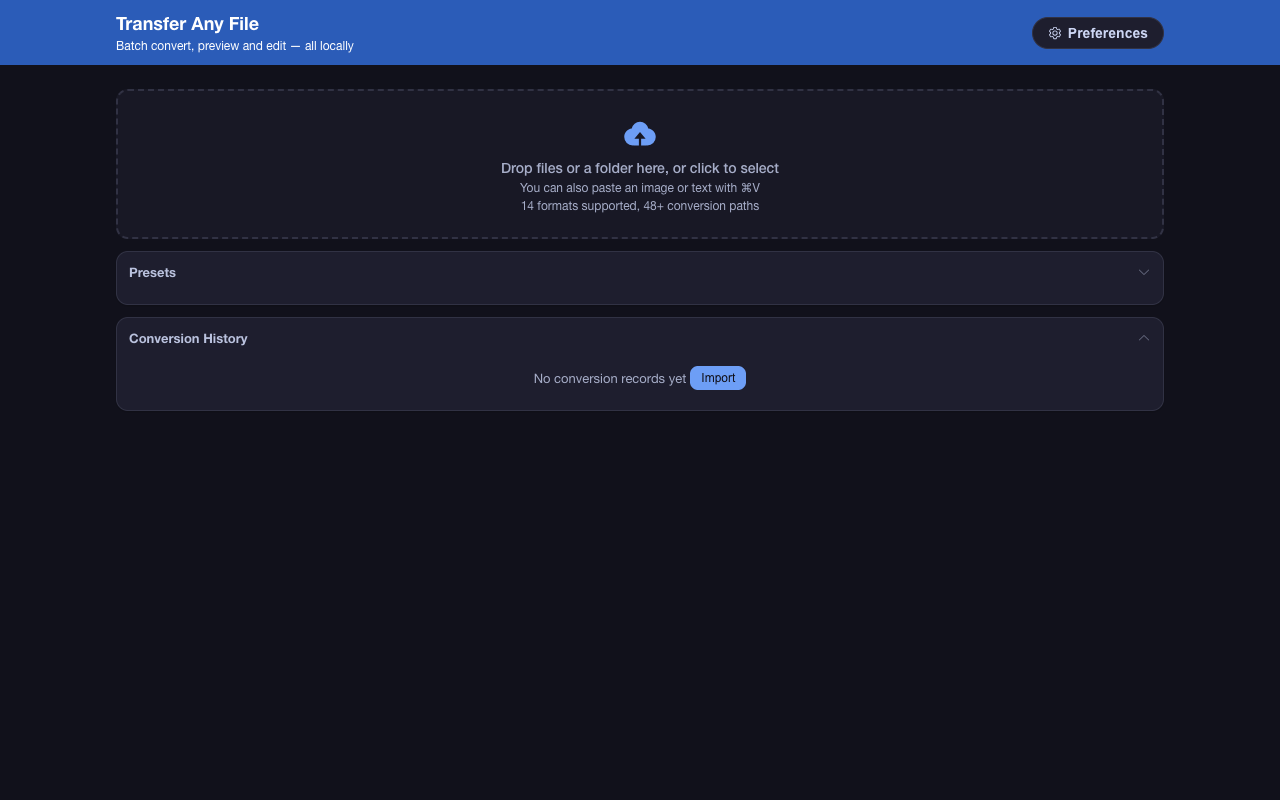
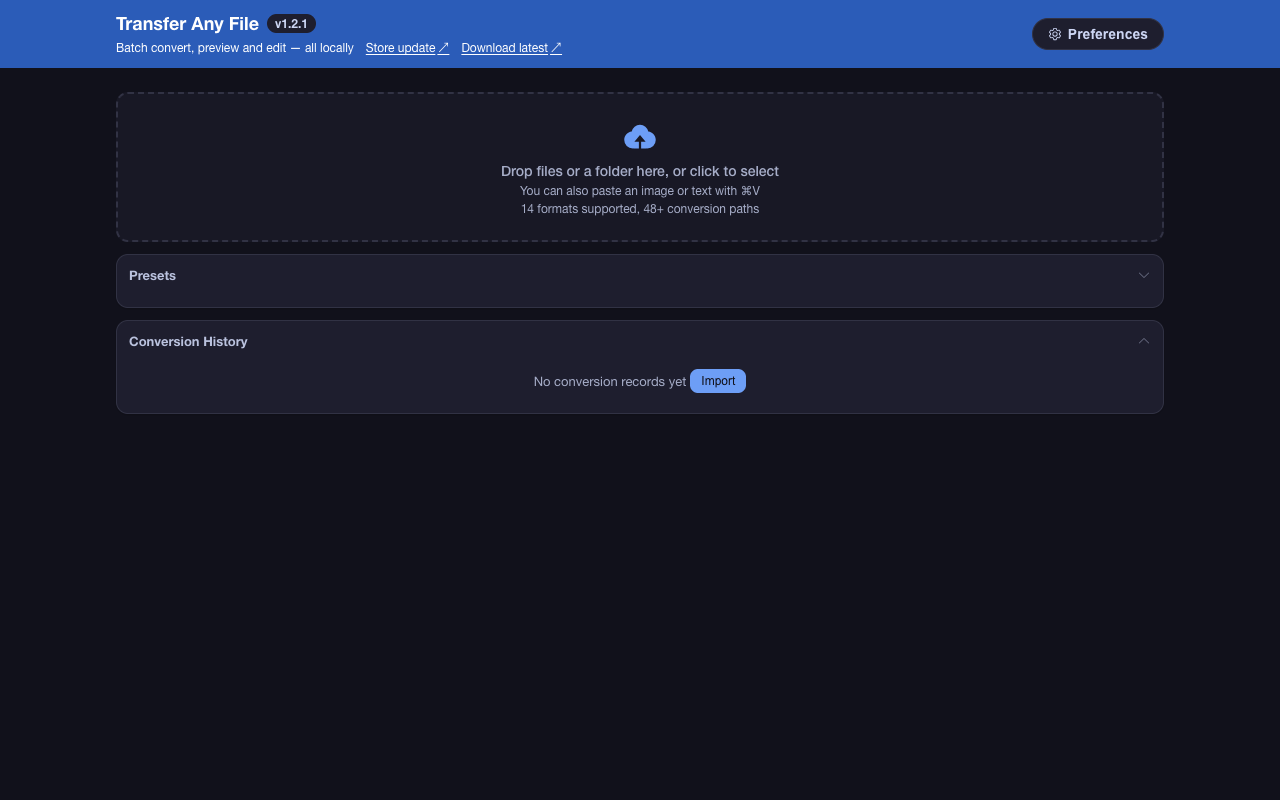
feat(ui): 顶栏显示装载版本，并给出商店与 Releases 两条更新入口
options 页顶栏品牌名旁多了一枚版本芯片，读的是 `browser.runtime.getManifest().version`，也就是 Chrome 扩展管理页上那一个数字，不是构建期烘进 bundle 的常量——用户报「我这是哪一版」时，屏幕上的数要和浏览器说的一致。副标题那一行再挂两条链接：Chrome 应用商店条目与 GitHub `releases/latest`。商店现停 1.0.0、GitHub 已 1.2.1，所以两条都给；扩展没有 host 权限、也没有可问的服务器，因此界面只给出口、不给判断，不会出现「有新版本」这类断言。芯片沿用 skip link 与齿轮那颗「卡片底 + text-primary 墨」的契约，链接墨色与 `.brand-name` 同一枚 `--fat-on-primary`、靠下划线承载可点击性，焦点环是顶栏已有的双带（外圈 focus-ring、内圈卡片色），所以没有引入第六组对比度对，也没有新颜色、新权限、新存储键或新的网络路径。窄窗口下副标题与链接一起换行，320px 实测不撑宽文档。

三处「用普通页面假装扩展页」的桩一起补 `chrome.runtime.getManifest`：`scripts/e2e-test.mjs`、`scripts/capture-store-assets.mjs`、`scripts/render-demo-gif.mjs` 此前只给 `chrome.runtime` 一个 `id`，新调用会在这些环境里抛错把整页打崩。桩里的版本从被测产物的 `.output/chrome-mv3/manifest.json` 现读，于是截图、GIF 与断言引用的都是这一次构建真的带的那个号。两条外链字符串不触两道离线守卫：`check-offline.mjs` 拦的是六种请求调用形状，`check-remote-code.mjs` 的 URL 规则要求串以 `.js` / `.mjs` / `.wasm` 结尾或呈 `import("http…")` 形状，商店条目与 releases 地址都不成形状——先例是 `tools/file-diff.html` 里那条同样的商店链接。

e2e 新增一节 9 条（453→462）：芯片文本与 tooltip、两条链接的精确地址（写错的 item ID 会把安装者送去 404，且没有别的门禁会发现）、`target=_blank` 与 `rel=noopener`、aria-label 以可见文案开头并点名新标签页（WCAG 2.5.3）、链接墨色与品牌名同色、320px 下顶栏换行不溢出。文档同步四层：README 中英各三处（功能全览、隐私清单、一条新 FAQ）、`docs/index.html` 隐私段中英各一句、CHANGELOG 双语、断言总数回填 8 处；商店文案与 manifest 描述未动（一枚芯片不是商品卖点，改它会牵动 `verify:listing` 的七个粘贴字段）。素材按新界面重拍，两条演示 GIF 重录。
[…]

diff --git a/entrypoints/options/App.vue b/entrypoints/options/App.vue
@@ -3,6 +3,7 @@ import { computed, ref, watch, nextTick, defineAsyncComponent, onMounted, onUnmo
 import { Setting, RefreshRight, CircleClose, UploadFilled } from '@element-plus/icons-vue';
 import zhCn from 'element-plus/es/locale/lang/zh-cn';
 import enUs from 'element-plus/es/locale/lang/en';
+import { browser } from 'wxt/browser';
 import { initConverters } from '~/utils/converters';
 import { useConversion } from '~/composables/useConversion';
 import { CONVERSION_ERROR_KEYS } from '~/utils/core/error-keys';
@@ -36,6 +37,21 @@ const ResultDownload = defineAsyncComponent(() => import('~/components/shared/Re
 const ComparisonView = defineAsyncComponent(() => import('~/components/shared/ComparisonView.vue'));
 
 initConverters();
+
+/**
+ * The two places a newer build can be had, printed beside the installed version in the topbar.
+ *
+ * Both are fixed addresses and neither is probed: this page asks the network nothing, so a
+ * "检查更新" that claimed an upgrade was available — or silent when one was — would be worse than a
+ * link that lets the reader look for themselves. The item ID is the live listing recorded at the top
+ * of `.github/CHROMEWEBSTORE.md`; `releases/latest` is the second half because the store copy trails
+ * GitHub until the next submission clears.
+ */
+const STORE_URL = 'https://chromewebstore.google.com/detail/blkdmpkcaceicinkhindniepbbbaekkb';
+const RELEASES_URL = 'https://github.com/liaolongdong/transfer-any-file/releases/latest';
+
+/** The version actually loaded, so the number a bug report quotes is the one on screen. */
+const appVersion = browser.runtime.getManifest().version;
 
 const { t, locale } = useI18n();
 const { recent: recentTargets } = useRecentTargets();
@@ -467,8 +483,39 @@ onUnmounted(() => {
       <header class="topbar">
         <div class="topbar-inner">
           <div class="brand">
-            <span class="brand-name">{{ t('appName') }}</span>
-            <span class="brand-tag">{{ t('options.subtitle') }}</span>
+            <div class="brand-line">
+              <span class="brand-name">{{ t('appName') }}</span>
+              <!-- The card-coloured pill the skip link and the preferences button already use: its ink
+                   is `--fat-text-primary` on `--fat-bg-card`, and those two flip together with the mode,
+                   so the chip needs no contrast measurement of its own on any of the six headers. -->
+              <span
+                class="brand-version"
+                :title="t('options.versionHint', { version: appVersion })"
+                >v{{ appVersion }}</span
+              >
+            </div>
+            <div class="brand-meta">
+              <span class="brand-tag">{{ t('options.subtitle') }}</span>
+              <!-- Clicking is the only way these reach the network, and the browser opens them — not
+                   this page. The arrow is generated by CSS so it stays out of the accessible name,
+                   which `aria-label` supplies in full (visible text first, WCAG 2.5.3). -->
+              <a
+                class="brand-link"
+                :href="STORE_URL"
+                target="_blank"
+                rel="noopener"
+                :aria-label="`${t('options.storeLink')}${t('options.newTabSuffix')}`"
+                >{{ t('options.storeLink') }}</a
+              >
+              <a
+                class="brand-link"
+                :href="RELEASES_URL"
+                target="_blank"
+                rel="noopener"
+                :aria-label="`${t('options.releasesLink')}${t('options.newTabSuffix')}`"
+                >{{ t('options.releasesLink') }}</a
+              >
+            </div>
           </div>
           <!-- A white capsule rather than the old 32px circle: the panel it opens is now a centred
                modal with grouped sections, and a labelled control says what it opens at a glance.
@@ -830,6 +877,66 @@ onUnmounted(() => {
 .brand-tag {
   font-size: 12px;
   color: var(--fat-on-primary);
+}
+
+/* Name and its version on one line. The chip is the smaller of the two, so it rides the name's
+   baseline and wraps under it when the header gets narrow, rather than joining the subtitle line. */
+.brand-line {
+  display: flex;
+  flex-wrap: wrap;
+  align-items: center;
+  gap: var(--fat-space-sm);
+}
+
+.brand-version {
+  padding: 2px var(--fat-space-sm);
+  background: var(--fat-bg-card);
+  border-radius: var(--fat-radius-pill);
+  color: var(--fat-text-primary);
+  font-size: 12px;
+  font-weight: 600;
+  font-variant-numeric: tabular-nums;
+}
+
+/* The subtitle and the two outbound links share the second line: the links qualify where an upgrade
+   comes from, so they belong beside the sentence that says what this page is, not on the far edge
+   next to the gear. The column gap is one step wider than the row gap because the line mixes a
+   description with actions — at 8px the first link read as the tail of the sentence. */
+.brand-meta {
+  display: flex;
+  flex-wrap: wrap;
+  align-items: baseline;
+  gap: var(--fat-space-xs) var(--fat-space-md);
+}
+
+/* `--fat-on-primary` is the ink every other topbar string already uses — measured at ≥4.5:1 against
+   all six headers in both modes — and the underline carries the link affordance, because colour alone
+   would fail WCAG 1.4.1 on a header that is itself a single hue. */
+.brand-link {
+  color: var(--fat-on-primary);
+  font-size: 12px;
+  text-decoration: underline;
+  text-underline-offset: 2px;
+}
+
+/* Generated, not markup: `aria-label` already spells out the destination and the new tab, so the
+   arrow stays a shape rather than something a screen reader reads twice. */
+.brand-link::after {
+  content: '↗';
+  margin-left: 2px;
+}
+
+.brand-link:hover {
+  text-decoration-thickness: 2px;
+}
+
+/* The global ring paints the header's own accent on the header's own colour. The card-coloured band
+   underneath is the contract `.skip-link` and `.prefs-trigger` already keep in this header: the ring
+   always has an opaque boundary whichever surface is behind it. */
+.brand-link:focus-visible {
+  outline: 2px solid var(--fat-focus-ring);
+  outline-offset: 2px;
+  box-shadow: 0 0 0 2px var(--fat-bg-card);
 }
 
 /* The topbar's only button, and the one piece of chrome that must stay legible against six

diff --git a/docs/index.html b/docs/index.html
@@ -7112,14 +7112,17 @@ pnpm build</code><button
               <span lang="zh-CN"
                 >扩展只申请一项权限：<code>storage</code>，用于历史记录与偏好设置。它不声明任何
                 <code>host_permissions</code
-                >，自身代码中也不发起任何网络调用，因此不存在能把文件发出去的代码路径。完整政策：<a href="privacy.html"
+                >，自身代码中也不发起任何网络调用，因此不存在能把文件发出去的代码路径。界面上通向站外的只有顶栏那两个链接（商店条目与最新
+                Release），点了才由浏览器打开，扩展既不检查更新也不预取任何东西。完整政策：<a href="privacy.html"
                   >隐私政策</a
                 >（中英双语）。</span
               >
               <span lang="en"
                 >The extension requests exactly one permission, <code>storage</code>, for history and preferences. It
                 declares no <code>host_permissions</code> and issues no network call of its own, so there is no path by
-                which a file could be transmitted. Full text:
+                which a file could be transmitted. The only two ways out of the interface are the top-bar links to the
+                store listing and to the newest release: the browser opens them when you click, and the extension
+                neither checks for updates nor prefetches anything. Full text:
                 <a href="privacy.html">privacy policy</a> (bilingual).</span
               >
             </p>
@@ -8203,7 +8206,7 @@ pnpm build</code><button
               <p>
                 <span lang="zh-CN"
                   >一套 Playwright 端到端套件加载真正的构建产物，用仓库内的夹具跑完各类转换场景、批量与
-                  ZIP、取消与改键、预览与编辑、图片输出参数与转换预设、PDF 选页、输出文件名模板、历史与偏好，共 453
+                  ZIP、取消与改键、预览与编辑、图片输出参数与转换预设、PDF 选页、输出文件名模板、历史与偏好，共 462
                   项断言全部通过（1.2.1 之后的未发布构建，2026-10-23 实测）；另在 6 主题 × 浅/深共 12
                   种组合下逐项校验五组对比度：顶栏文字、主按钮文字（常态 / 悬停 / 按下）、焦点环、正文信息文字，以及
                   Element Plus 浅色效果的警示框与格式标签。CI 每次推送跑 lint + build + e2e。</span
@@ -8212,7 +8215,7 @@ pnpm build</code><button
                   >A Playwright end-to-end suite drives the actual build output over the repository fixtures — every
                   conversion scenario, batching and ZIP handling, cancellation and shortcut rebinding, preview and
                   editing, image output parameters and conversion presets, PDF page selection, output file-name
-                  patterns, history and preferences — with 453/453 assertions passing (the unreleased build after 1.2.1,
+                  patterns, history and preferences — with 462/462 assertions passing (the unreleased build after 1.2.1,
                   measured 2026-10-23). It also checks five contrast pairs — topbar text, the primary button's label in
                   its rest, hover and pressed states, the focus ring, informational text such as the drop hint and file
                   sizes, and the ink Element Plus paints on its light-effect alerts and per-file format tags — in all 12

diff --git a/docs/blog/index.html b/docs/blog/index.html
@@ -940,13 +940,13 @@ pnpm install &amp;&amp; pnpm build</code></pre>
             <p>
               <span lang="zh-CN"
                 >技术栈：<b>WXT + Vue 3 + TypeScript + Element Plus</b>，Manifest V3，权限只有 <code>storage</code>，MIT
-                协议。验证方式也是交付的一部分：Playwright 驱动构建产物跑 453
+                协议。验证方式也是交付的一部分：Playwright 驱动构建产物跑 462
                 条断言，转换用的夹具（<code>fixtures/</code>）随仓库走，谁都能本地重跑。</span
               >
               <span lang="en"
                 >Tech stack: <b>WXT + Vue 3 + TypeScript + Element Plus</b>, Manifest V3, <code>storage</code> as the
                 only permission, MIT licence. How it is verified is part of the deliverable too: Playwright drives the
-                built artifact through 453 assertions, and the fixtures it converts live in <code>fixtures/</code> next
+                built artifact through 462 assertions, and the fixtures it converts live in <code>fixtures/</code> next
                 to the code, so anyone can re-run them.</span
               >
             </p>

diff --git a/utils/i18n/zh.ts b/utils/i18n/zh.ts
@@ -16,6 +16,12 @@ export default {
     title: '转换工作台',
     subtitle: '批量转换、预览与编辑，全部在本地完成',
     preferences: '偏好设置',
+    versionHint: '当前已安装版本 {version}',
+    storeLink: '商店更新',
+    releasesLink: '下载最新版',
+    /** Appended to the visible link text rather than replacing it, so the accessible name keeps that
+     *  text as a substring (WCAG 2.5.3) while still naming the new tab. */
+    newTabSuffix: '，在新标签页打开',
   },
 
   // Upload

diff --git a/utils/i18n/en.ts b/utils/i18n/en.ts
@@ -14,6 +14,10 @@ const en: typeof zh = {
     title: 'Conversion Workbench',
     subtitle: 'Batch convert, preview and edit — all locally',
     preferences: 'Preferences',
+    versionHint: 'Installed version {version}',
+    storeLink: 'Store update',
+    releasesLink: 'Download latest',
+    newTabSuffix: ', opens in a new tab',
   },
 
   upload: {

diff --git a/README.en.md b/README.en.md
@@ -210,11 +210,13 @@ Summarised from the typical behaviour of each class of tool rather than one spec
 - **Keyboard and screen reader accessible** — skip link to the main content, visible focus rings, and full `prefers-reduced-motion` support: that setting collapses displacement and scale alongside every duration, so nothing on screen is left moving for a single frame — Element Plus dialogs and dropdowns included, whose entrance offsets are rewritten rather than merely sped up; conversion progress, result counts and the file list's load/clear all land in a `role="status"` region, and the comparison view's divider exposes `role="separator"` with its current ratio
 - **Measured contrast** — the end-to-end suite asserts five WCAG contrast pairs (topbar text, focus ring, the primary button label in its rest / hover / pressed states, informational text, and the ink Element Plus paints its light-effect alerts and per-file format tags with) across all 6 themes × light/dark, 12 combinations, and separately asserts that the first Tab lands on the skip link with a visible ring; thresholds, measured readings and the known limitation live in [CONTRIBUTING.en.md](CONTRIBUTING.en.md#accessibility-and-contrast-assertions) · [简体中文](CONTRIBUTING.md#无障碍与对比度断言)
 - **Personalization** — 6 theme colors × light / dark / system, Chinese/English interface
+- **Version and update entry points** — the chip beside the app name in the top bar shows the version actually loaded (the same number `chrome://extensions` reports), and next to it two links go to the store listing and to the newest GitHub release. The extension never phones home to check for updates — there is no server to ask — so the interface makes no claim like "a new version is available"; it only offers the two doors you can open yourself
 
 ## 🔒 Privacy
 
 - All conversions run **100% locally** in the extension page — the load-bearing fact is that no first-party source file issues a request (`fetch`, `XMLHttpRequest`, `WebSocket`, `EventSource` and `sendBeacon` appear nowhere in `entrypoints/`, `components/`, `composables/` or `utils/`, asserted by `pnpm verify:offline`). On top of that, the manifest declares no host permissions and registers no content scripts, so the request paths sitting unused inside third-party converter libraries can neither read a response nor reach any site's data
 - The only permission requested is `storage`, used for history (file names, formats, sizes — never contents) and preferences
+- Exactly two things in the interface lead off-site: the "Store update" and "Download latest" links in the top bar. They are ordinary links — the browser opens them after you click, the extension issues no request of its own and never asks whether a newer version exists
 - No analytics, no tracking, no account, no ads, no paid tier
 - Want to test the claim before installing: [File diff](https://liaolongdong.github.io/transfer-any-file/diff/) is the one page on this site that asks for a file of yours — two files are read into the page's own memory and compared line by line and word by word. The code shipped with it issues no request at all, and no extension is needed (its source is `tools/file-diff.html` in this repository, and what is served is a byte-for-byte copy of it)
 - Full text: [privacy policy (online, bilingual)](https://liaolongdong.github.io/transfer-any-file/privacy.html) (repository source `docs/privacy.html`) · store-facing answers: [`CHROMEWEBSTORE.md`](.github/CHROMEWEBSTORE.md)
@@ -268,6 +270,9 @@ That is the PDF viewer talking, not this extension. The PDF we write is a page i
 
 **Does it work without internet?**
 Yes. Once installed the UI and every converter run locally, and the text is set in system fonts rather than a downloaded webfont, so nothing has to be fetched; airplane mode changes nothing.
+
+**Which version am I running, and how do I upgrade?**
+The chip beside the app name in the top bar is the version actually loaded — the same number `chrome://extensions` shows. Two links sit next to it, one per upgrade path: installed from the store, Chrome updates it on its own and "Store update" takes you to the listing; loaded unpacked from a zip, "Download latest" opens the GitHub releases page so you can replace the folder. The extension never checks for an update itself — it has no host permission and no server to ask — so that number answers "which version is running", not "is there a newer one".
 
 **How is this different from an online converter?**
 Same job, opposite direction: online tools ship your file to a machine you don't control and delete it "within 24 hours"; this one never has a copy to delete. The trade-off is breadth — online tools cover hundreds of formats including video and audio, this one covers 14 document, data and image formats that browsers can decode.

diff --git a/.github/visibility-checklist.md b/.github/visibility-checklist.md
@@ -52,7 +52,7 @@
 以后再补跑的成本（本机需要手动装过 ffmpeg 与 chromium 二进制）：
 
 ```bash
-pnpm test:e2e        # = wxt build + node scripts/e2e-test.mjs，断言基线 453 条
+pnpm test:e2e        # = wxt build + node scripts/e2e-test.mjs，断言基线 462 条
 ```
 
 **2026-09-29 这一轮（JSON 预览的树 / 数组表 / 搜索 + 仓库外的对比页）跑满了 e2e，改在 `E2E_HEADLESS=true` 下跑**：
@@ -1653,6 +1653,36 @@ csv→Word 的另一组事实回读自`html-to-docx.ts`：正文以 MHT altChunk
   **一条工具口径**：`pnpm test:e2e` 整条链路超过 Bash 默认 120s 会被 cut，父 `pnpm` 收到 SIGTERM 而 node 子进程
   被 reparent 继续写日志——`ELIFECYCLE Command failed.` 与「后台完成 exit 0」都不能当结论，只认日志尾部的
   `EXIT:` 行；长跑要显式传 timeout，长 `sleep` 也一样。
+
+- **10-23 第七十三轮（顶栏加版本号与两条更新入口；断言总数 453→462，一轮全量绿灯）。**
+  版本号取 `browser.runtime.getManifest().version`，也就是 Chrome 扩展管理页上那一个，不是构建期烘进 bundle
+  的常量——用户报的「我这是哪一版」要和浏览器说的一致。落点与去向由用户选定：品牌名旁一枚芯片，副标题那一行
+  再挂两条链接，商店条目与 `releases/latest` 各一条（商店现停 1.0.0、GitHub 已 1.2.1，所以两条都给，
+  不在界面里断言「有更新」）。
+  **三处 mock 一起改**：`scripts/e2e-test.mjs`、`scripts/capture-store-assets.mjs`、`scripts/render-demo-gif.mjs`
+  各自的 `chrome.storage` 桩此前只给 `chrome.runtime` 一个 `id`，新增的 `getManifest()` 在这三个「用普通页面
+  假装扩展页」的环境里会直接抛错、把整页打崩。桩里的版本从**被测产物**的 `.output/chrome-mv3/manifest.json`
+  现读，于是那条芯片断言不是在跟本文件自己编的数字对齐，截图与 GIF 里印的也是真实号。
+  **外链字符串过不了两道守卫才是这里真会出事的地方**：`check-offline.mjs` 拦的是 `fetch` / `XMLHttpRequest` /
+  `WebSocket` / `EventSource` / `sendBeacon` / `RTCPeerConnection` 这六种调用形状，`check-remote-code.mjs`
+  的 URL 规则要求串以 `.js` / `.mjs` / `.wasm` 结尾（或是 `import("http…")` 那一类），商店条目地址与
+  releases 地址都不成形状，两道都仍绿；先例是 `tools/file-diff.html` 里那条同样的商店链接，它一直在扫描范围内。
+  「不联网检查更新」是这条功能的边界：没有 host 权限就没有可问的服务器，所以界面只给出口，不给判断。
+  e2e 新增一节 9 条：芯片文本与 tooltip、两条链接的存在与**精确地址**（写错的 item ID 会把每个安装者送去
+  404，而仓库里没有任何别的门禁会发现）、`target=_blank` 加 `rel=noopener`、aria-label 以可见文案开头并点名
+  新标签页（WCAG 2.5.3）、链接墨色与 `.brand-name` **同色**（刻意不引入第六组对比度对——那一对已在
+  紧随其后的两节里跑满 12 套主题×模式）、320px 下顶栏换行而不撑宽文档。
+  观感上改了一处：副标题与链接同行时列间距从 `--fat-space-sm` 提到 `--fat-space-md`，8px 时第一条链接读起来
+  像那句话的尾巴。文档同步 4 层：README 中英各三处（功能全览、隐私清单、新增一条 FAQ）、`docs/index.html`
+  隐私段中英各一句、CHANGELOG 双语、断言总数 462 回填 8 处（含本清单第 55 行）。商店文案与 manifest 描述
+  **没动**——一枚版本芯片不是商品卖点，改它会连带牵动 `verify:listing` 的七个粘贴字段。
+  验证：`Results: 462/462 passed (100%)`、`EXIT:0`（`pnpm test:e2e` 的定义性一轮，日志 `/tmp/taf-e2e-final.log`），基线自写到 `462`；
+  build `Σ Total size: 3.86 MB`（对外字样不变）、zip `1.18 MB`；`verify:offline` 96 个第一方文件 + manifest
+  只有 `storage`；`verify:remote-code` 源码 96 / 产物 44；`verify:paths` 48 边 / 182 对；`pages:check` 133 文件；
+  `verify:numbers` 23 事实 × 138 文档；`verify:listing` 7 个粘贴字段；`verify:release-ci` 63 条判定与 10 处接缝；
+  `verify:meta` 短描述 127/132；`lint:all` 全绿。`assets:capture` 重拍 7+7 原图、14 张商店截图与 3 张推广图，
+  两条演示 GIF 重录（zh 1523 KB / en 1493 KB）。
+  **一条工具口径**：Playwright 自带的 ffmpeg 解不了 GIF——`-i demo-zh.gif` 报 `Invalid data found` 并以 183 退出。想验 GIF 内容得换工具，或者直接看同一次构建的截图，别把「量具读不出」记成「素材错了」。
 
 ## 3. 收下改动：这一节记的是提交账，不是提交计划
 

diff --git a/docs/promo/community-posts.md b/docs/promo/community-posts.md
@@ -17,7 +17,7 @@
 - 权限：只有 `storage` 一项 | 出处 `wxt.config.ts`
 - 体积与阈值：单文件最大 100 MB、单批最多 200 个文件，超过 20 MB 或超过 5 个文件先弹确认 | 出处 `components/shared/FileUpload.vue`、`composables/useConversion.ts`
 - 整包体积：3.86 MB | 出处 `pnpm build` 输出，按字节和 ÷ 1e6
-- 端到端断言：跑 453 条断言 | 出处 `scripts/__baseline__/e2e-assertions.json`（一轮完整绿灯运行记录）
+- 端到端断言：跑 462 条断言 | 出处 `scripts/__baseline__/e2e-assertions.json`（一轮完整绿灯运行记录）
 - 主题：6 种主题色，浅色 / 深色两组共 12 组配置逐组断言对比度 | 出处 `composables/useTheme.ts`
 - 许可 / 作者：MIT，单一作者 Better（[@liaolongdong](https://github.com/liaolongdong)） | 出处 `LICENSE`、`package.json`
 - 商店状态：**已上线**，一次点击安装 | 出处 `.github/CHROMEWEBSTORE.md` 顶部「现网状态」（2026-10-02 浏览器实测条目在架，详情区版本 1.0.0）
@@ -82,7 +82,7 @@
 - 中文编码：文本先按 BOM / NUL 奇偶判断 UTF-16，再按 UTF-8 → GB18030 → GBK 严格解码；四种都不覆盖、或解出一串控制字符，就报错而不是产出乱码。写 CSV 带 UTF-8 BOM，Excel 双击打开不乱码。
 - 值保真比格式更重要：XLSX → CSV 按单元格存储值序列化（不是显示文本），日期在读取期统一成 ISO 形状而不是日序列号；CSV → XLSX 只在「解析后能精确回写」时才判成数值单元格，于是 `00123` 和一串 20 位数字不会被静默改坏。以 `= + - @` 开头的字段统一转义，防止 CSV 在 Excel 里被当公式执行。
 - 首屏：重型转换库全部动态 `import()`，ZIP 引擎（fflate）也只在真正要用它的那个调用点 `await import()`。整包 3.86 MB，但打开工作台不会拉那 1.26 MB 的 `pdf.worker`。注意一个坑：`defineAsyncComponent` 不等于它的 import 也是懒的——被 `v-show` 常驻挂载的异步组件在启动那一刻就解析完了自己的 chunk。
-- 测试没有单测框架，只有 Playwright 驱动**构建产物**跑 453 条断言，包括 6 种主题色 × 明暗共 12 组配置下的逐项对比度断言。
+- 测试没有单测框架，只有 Playwright 驱动**构建产物**跑 462 条断言，包括 6 种主题色 × 明暗共 12 组配置下的逐项对比度断言。
 - 文档层跑过一遍：所有对外散文里的数字（格式数、路径数、组合数、阈值、断言总数）都由一条脚本现推再比对，历史陈述按文件排除在射程外。
 
 ## 链接

diff --git a/docs/promo/blog-article.en.md b/docs/promo/blog-article.en.md
@@ -103,7 +103,7 @@ Repository: [github.com/liaolongdong/transfer-any-file](https://github.com/liaol
 
 Everything the store asks for was written down first: name and description copy, 1280×800 screenshots, a line-by-line justification for each permission, the privacy policy, and the data-disclosure answers — all in `.github/CHROMEWEBSTORE.md` and `docs/privacy.html`. Getting there took three rejections: the first two were about the shape of the copy, the third about remotely hosted strings sitting unreachable inside the bundle — fixed in the build, not in the text. To push anything for the next version, open an issue on the repo.
 
-Tech stack: **WXT + Vue 3 + TypeScript + Element Plus**, Manifest V3, `storage` as the only permission, MIT licence. How it's verified is part of the deliverable too: Playwright drives the built artifact through 453 assertions, and the fixtures it converts live in `fixtures/` next to the code.
+Tech stack: **WXT + Vue 3 + TypeScript + Element Plus**, Manifest V3, `storage` as the only permission, MIT licence. How it's verified is part of the deliverable too: Playwright drives the built artifact through 462 assertions, and the fixtures it converts live in `fixtures/` next to the code.
 
 ## 6. Who shouldn't use it
 

diff --git a/docs/promo/wechat-article.md b/docs/promo/wechat-article.md
@@ -100,7 +100,7 @@ pnpm install && pnpm build
 
 商店要的东西一开始就写在了仓库里：名称与描述文案、1280×800 截图、权限逐条说明、隐私政策、数据披露答复，都在 `.github/CHROMEWEBSTORE.md` 和 `docs/privacy.html`。走到上架用了三轮拒绝：前两轮是文案的形状，第三轮换了一条轴——包里有远程托管的字符串，代码里走不到也算违规，改的是构建不是文案。后续版本想推动什么，去仓库开个 issue 就行。
 
-技术栈：**WXT + Vue 3 + TypeScript + Element Plus**，Manifest V3，权限只有 `storage`，MIT 协议。代码里的验证方式也一并交代：Playwright 驱动构建产物跑 453 条断言，夹具（`fixtures/`）随仓库走。
+技术栈：**WXT + Vue 3 + TypeScript + Element Plus**，Manifest V3，权限只有 `storage`，MIT 协议。代码里的验证方式也一并交代：Playwright 驱动构建产物跑 462 条断言，夹具（`fixtures/`）随仓库走。
 
 ## 六、谁不该用它
 

diff --git a/CHANGELOG.en.md b/CHANGELOG.en.md
@@ -17,6 +17,7 @@ Release PR is not by itself a release.
 - **history**: A history entry can bring back the output options and name pattern it ran with; presets can be renamed and overwritten with the current settings
 - **converter**: A batch of PNG / JPEG / WebP / BMP / GIF images can become one multi-page PDF. It is still one PDF per image by default; the merged document is capped at 200 pages, and one undecodable image fails the whole group rather than producing a partial file, with the diagnostic naming that file
 - **site**: Format hub pages and more "one format to another" pages, plus an offline, usage and FAQ section on `/diff/`
+- **ui**: The top bar shows the loaded version beside the app name and offers two update entry points — the store listing and the newest GitHub release. The extension never checks for an update over the network; those links are only doors
 
 ### Changed
 
